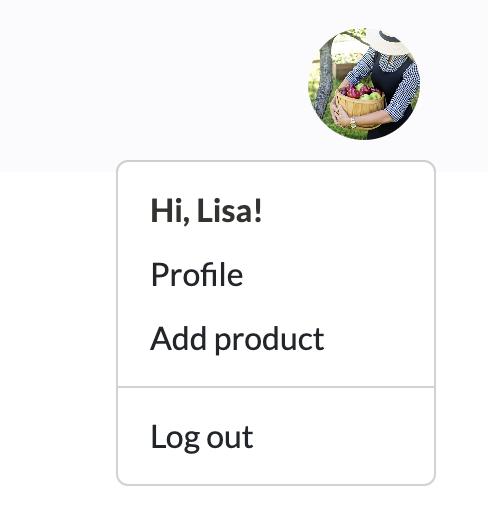
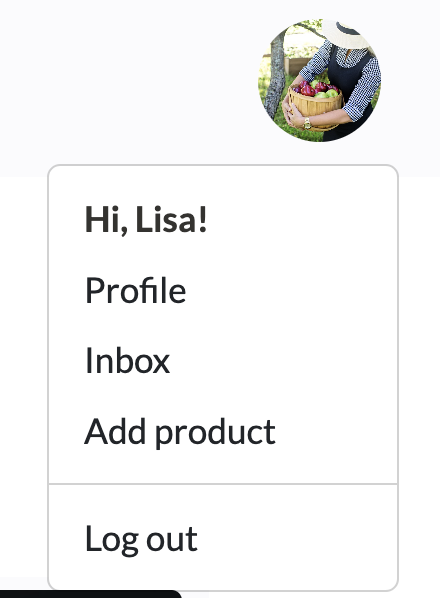
Add inbox and conversation functionality to readme

Changed region(s): [[0.0, 0.2802, 0.9159, 1.0], [0.1182, 0.0311, 0.8864, 0.2802], [0.1773, 0.4669, 0.5023, 0.5603]]

diff --git a/README.md b/README.md
@@ -60,9 +60,9 @@ I've adopted Agile methodology for project planning, using GitHub Projects as th
 
 ##### EPIC: Conversations
 ##### User Stories:
-- As a registered user I can access my inbox so that I can see a list of my conversations.
-- As a registered user I can send a message to another user so that I can get more information about a product.
-- As a registered user I can answer received messages from other users so that I can provide more information about my products.
+- As a registered user I can access my inbox so that I can see a list of my conversations (could have / done).
+- As a registered user I can send a message to another user so that I can get more information about a product (could have / done).
+- As a registered user I can answer received messages from other users so that I can provide more information about my products (could have / done).
 
 ### Wireframes
 The wireframes depict the project's initial concept and planning. However, adjustments were made during development, and new features may have been incorporated along the way.
@@ -81,6 +81,14 @@ The wireframes depict the project's initial concept and planning. However, adjus
 
 <details><summary>Favorites</summary>
 <img src="documentation/wireframes/wireframe_favorites.png">
+</details>
+
+<details><summary>Inbox</summary>
+<img src="documentation/wireframes/wireframe_inbox.png">
+</details>
+
+<details><summary>Conversation messages</summary>
+<img src="documentation/wireframes/wireframe_conversation_messages.png">
 </details>
 
 ### Design Choices
@@ -112,7 +120,7 @@ All features have been prioritized and developed in response to the needs outlin
 
 - Clickin on the avatar displays the menu:
     - If the user is not logged in there are links to register and log in.
-    - It the user is logged in there are links to the profile, to add a product and to log out.
+    - It the user is logged in there are links to the profile, Inbox, to add a product and to log out.
 
 - Logo links to home page:
     - If user is not logged in the home page is the landing page.
@@ -227,7 +235,8 @@ All features have been prioritized and developed in response to the needs outlin
 - The product information is divided in 3 areas:
     - Product photo
     - Product name and description
-    - Producer (with link to the profile), quantity, price, location and category.
+    - Details: Producer (with link to the profile), quantity, price, location and category
+        - Below there is a link to contact the producer if the user is logged in and the product is not their own
 
 - If a user enters the url of a product marked as unavailable a modal is displayed indicating it, which can only be closed clicking on the link to "all available products"
 
@@ -239,6 +248,9 @@ All features have been prioritized and developed in response to the needs outlin
 </details>
 <details><summary>Products Details - Small Screen</summary>
 <img src="documentation/readme_images/product_details/product_details_small_screen.png">
+</details>
+<details><summary>Products Details - Own Product</summary>
+<img src="documentation/readme_images/product_details/product_details_own_product.png">
 </details>
 <details><summary>Products Details - Not available</summary>
 <img src="documentation/readme_images/product_details/product_details_not_available.png">
@@ -275,6 +287,63 @@ All features have been prioritized and developed in response to the needs outlin
 </details>
 <details><summary>Profile Page - Somebody else's Profile</summary>
 <img src="documentation/readme_images/profile_page/profile_other.png">
+</details>
+
+#### Inbox Page - Conversations
+
+- All existing conversations are listed. If there are no conversation a text is displayed saying so.
+
+- Each conversation has the same card style as the products listed in the profile. The information in each card is the following:
+    - Product photo.
+    - User having the conversation with.
+    - Product title.
+    - Date and time of last message.
+
+- Clicking on a conversation redirects the user to the selected conversation page.
+
+- If a conversation is about a product that is now unavailable, hovering over it displays a tooltip. The link is still active.
+
+- Pagination is implemented, eight conversations are displayed per page.
+
+<details><summary>Inbox Page</summary>
+<img src="documentation/readme_images/inbox/inbox.png">
+</details>
+<details><summary>Inbox Page - Product unavailable</summary>
+<img src="documentation/readme_images/inbox/inbox_product_unavailable.png">
+</details>
+
+#### Conversations Messages
+
+- The Page is split in 3 sections:
+    - At the top there is a button to go back to the Inbox page
+    - Below there is a header and all the messages.
+        - The height for the messages section is fixed and the user can scroll through them. When the page loads, it scrolls to the bottom, where the most recent message is.
+    - At the bottom there is the text field to write a new message and the button to send the message.
+
+- Each message has the profile picture of the user, the profile name, the message content and the date and time.
+
+- If a conversation is about a product that is now unavailable, a modal is displayed. This modal is can be closed and the conversation can be continued.
+
+<details><summary>Conversation messages</summary>
+<img src="documentation/readme_images/inbox/conversation_messages.png">
+</details>
+<details><summary>Conversation messages - Product unavailable</summary>
+<img src="documentation/readme_images/inbox/conversation_messages_product_unavailable.png">
+</details>
+
+#### Start Conversation
+
+- When the user clicks "Contact producer" in the Product Details Page:
+    - If a conversation between the users about the product already exists, the user is redirected to it.
+    - If it's a new conversation the user is redirected to the New Conversation Page, where a message can be sent.
+
+- If the user types a url to start a conversation about a product marked as unavailable a static modal is displayed and the user can only go back to the Products Page.
+
+<details><summary>Start Conversation</summary>
+<img src="documentation/readme_images/inbox/new_conversation_message.png">
+</details>
+<details><summary>Start Conversation - Product unavailable</summary>
+<img src="documentation/readme_images/inbox/new_conversation_message_unavailable.png">
 </details>
 
 #### Favorites Page
@@ -320,7 +389,8 @@ All features have been prioritized and developed in response to the needs outlin
     - Add a product to favorites / remove a product from favorites.
     - Edit profile.
     - Enable / Disable a product.
-    - Add / Edit / Delete a product
+    - Add / Edit / Delete a product.
+    - Start a conversation by sending a message to a producer.
 
 <details><summary>Sign In</summary>
 <img src="documentation/readme_images/messages/message_sign_in.png">
@@ -354,6 +424,9 @@ All features have been prioritized and developed in response to the needs outlin
 </details>
 <details><summary>Diable Product</summary>
 <img src="documentation/readme_images/messages/message_disable_product.png">
+</details>
+<details><summary>Start Conversation - Message sent</summary>
+<img src="documentation/readme_images/messages/start_conversation.png">
 </details>
 
 
@@ -390,16 +463,24 @@ All features have been prioritized and developed in response to the needs outlin
 
 - Images uploaded by users should be limited in size and compressed to keep storage more efficient and allow faster downloads.
 
+- Split inbox messages in two: The ones about the user's own products and the ones sent about other users' products.
+
+- Users will be able to delete conversation from their inbox.
+
 
 ## Database Design
 
-The ERD has been design with Lucidchart. The database comprises three models: 
+The ERD has been designed with Lucidchart. The database comprises three models: 
 
 - Profile model for the users profile information.
 
 - Product model for the products information.
 
 - Favorite model acts as a bridge between users and products, allowing users to create a personalized list of favored products.
+
+- Conversation model for the conversations between users about a product.
+
+- ConversationMessage for the messages in a conversation.
 
 ![](documentation/readme_images/ERD_design.png)
 
@@ -618,6 +699,7 @@ The project will now of been cloned on your local machine for use
 - A substantial part of the inspiration for structuring the Django project, creating models, and implementing views was drawn from the following tutorials:
     - [Dee MC's Recipe Sharing Tutorial](https://www.youtube.com/playlist?list=PLXuTq6OsqZjbCSfiLNb2f1FOs8viArjWy)
     - [I Think Therefore I Blog](https://github.com/Code-Institute-Solutions/Django3blog) from Code Institue
+    - [Learn Django by Building an Online Marketplace](https://www.youtube.com/watch?v=ZxMB6Njs3ck) from freeCodeCamp.org for conversation messages
 - [Bootstrap documentation](https://getbootstrap.com/docs/5.3/getting-started/introduction/) has been used all along the project
 - Approach to add and remove an item from the user's favorites from the products list view using [get_or_create() from Let's code more](https://www.letscodemore.com/blog/django-get-or-create/)
 - How to create a slug on the front-end from [Stackoverflow](https://stackoverflow.com/questions/837828/how-do-i-create-a-slug-in-django)
